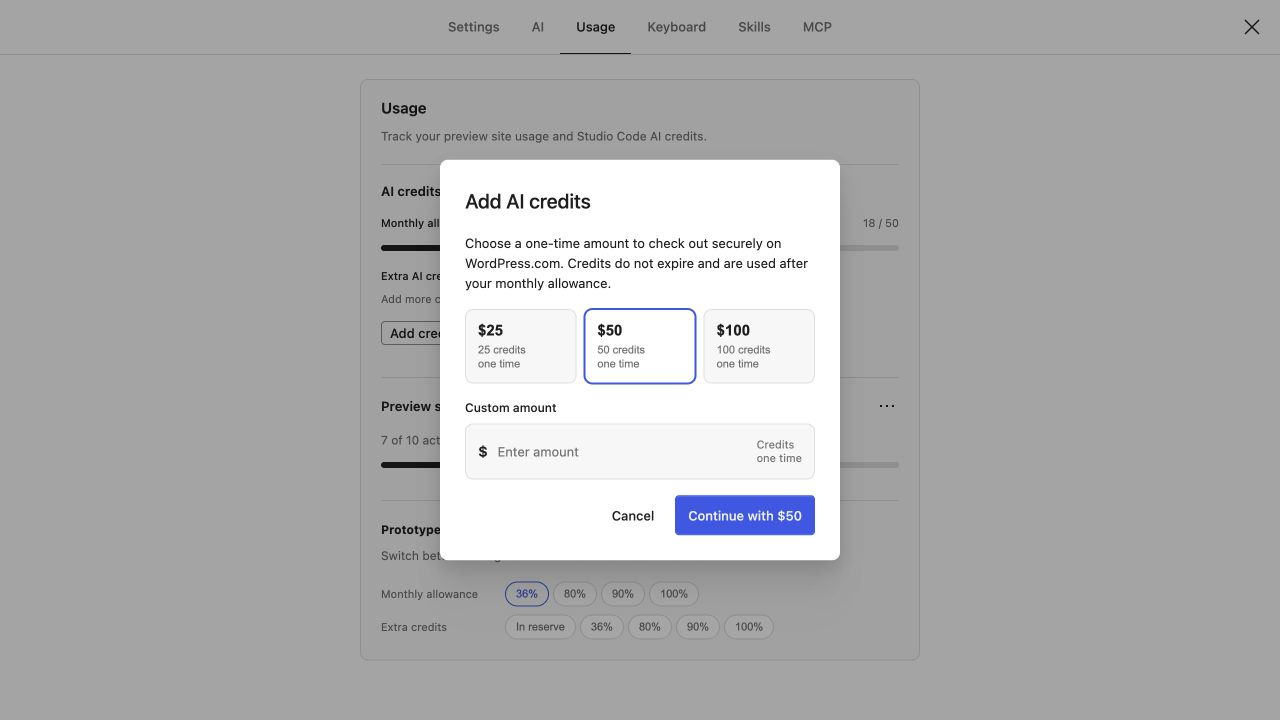
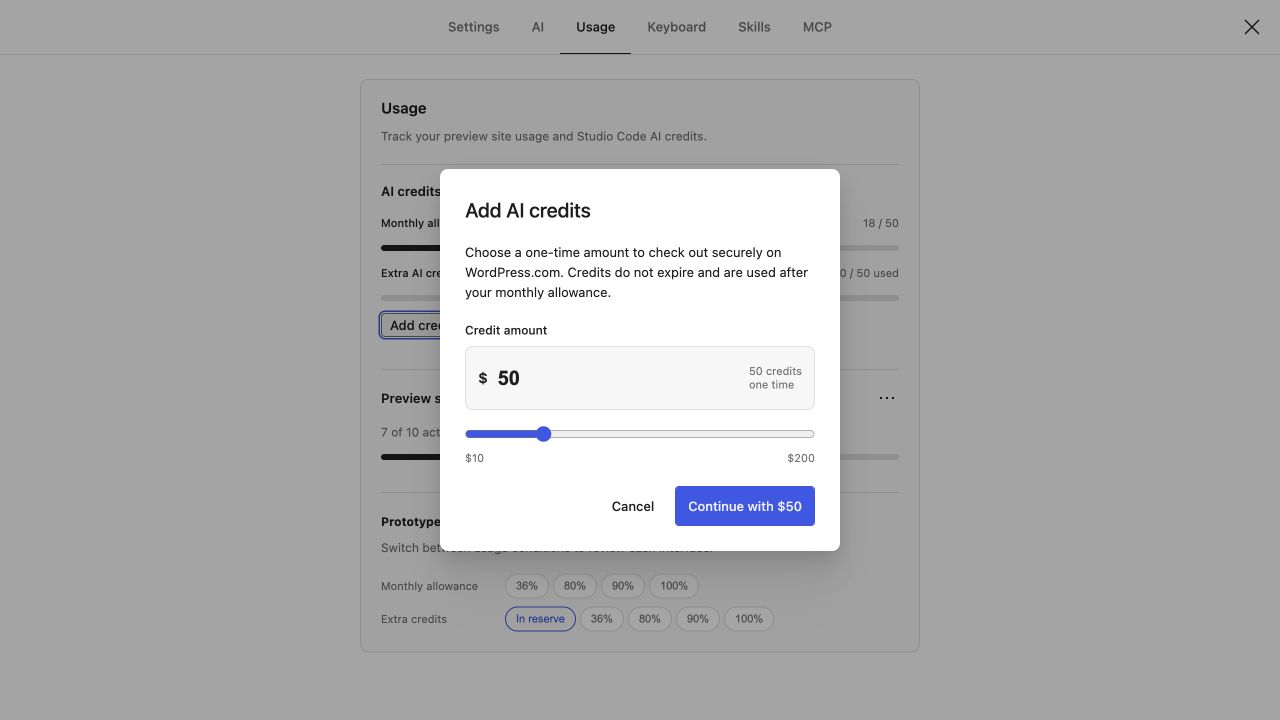
Explore slider-based credit amounts

diff --git a/apps/ui/src/components/purchase-credits-dialog/index.tsx b/apps/ui/src/components/purchase-credits-dialog/index.tsx
@@ -8,7 +8,9 @@ import { useColorScheme } from '@/hooks/use-color-scheme';
 import { unlock } from '@/lock-unlock';
 import styles from './style.module.css';
 
-const CREDIT_AMOUNTS = [ 25, 50, 100 ];
+const MIN_CREDIT_AMOUNT = 10;
+const MAX_CREDIT_AMOUNT = 200;
+const DEFAULT_CREDIT_AMOUNT = 50;
 const { ThemeProvider } = unlock( privateApis );
 
 export function PurchaseCreditsDialog( {
@@ -18,13 +20,20 @@ export function PurchaseCreditsDialog( {
 	open: boolean;
 	onOpenChange: ( open: boolean ) => void;
 } ) {
-	const [ amount, setAmount ] = useState< number | null >( 50 );
-	const [ customAmount, setCustomAmount ] = useState( '' );
+	const [ amount, setAmount ] = useState( String( DEFAULT_CREDIT_AMOUNT ) );
 	const colorScheme = useColorScheme();
 	const dialogBackground = colorScheme === 'dark' ? '#1e1e1e' : '#ffffff';
-	const parsedCustomAmount = Number( customAmount );
-	const checkoutAmount = amount ?? parsedCustomAmount;
-	const hasValidAmount = Number.isInteger( checkoutAmount ) && checkoutAmount > 0;
+	const checkoutAmount = Number( amount );
+	const hasValidAmount =
+		Number.isInteger( checkoutAmount ) &&
+		checkoutAmount >= MIN_CREDIT_AMOUNT &&
+		checkoutAmount <= MAX_CREDIT_AMOUNT;
+	const sliderAmount = hasValidAmount
+		? checkoutAmount
+		: Math.min(
+				MAX_CREDIT_AMOUNT,
+				Math.max( MIN_CREDIT_AMOUNT, Number( amount ) || DEFAULT_CREDIT_AMOUNT )
+		  );
 
 	const continueToCheckout = () => {
 		if ( ! hasValidAmount ) {
@@ -55,74 +64,58 @@ export function PurchaseCreditsDialog( {
 								'Choose a one-time amount to check out securely on WordPress.com. Credits do not expire and are used after your monthly allowance.'
 							) }
 						</Dialog.Description>
-						<div
-							className={ styles.amounts }
-							role="radiogroup"
-							aria-label={ __( 'Credit amount' ) }
-						>
-							{ CREDIT_AMOUNTS.map( ( option ) => (
-								<button
-									key={ option }
-									type="button"
-									className={ styles.amount }
-									data-selected={ amount === option ? '' : undefined }
-									role="radio"
-									aria-checked={ amount === option }
-									onClick={ () => {
-										setAmount( option );
-										setCustomAmount( '' );
-									} }
-								>
-									<span className={ styles.amountValue }>${ option }</span>
-									<span className={ styles.amountDetails }>
-										<span className={ styles.amountLabel }>
-											{ sprintf(
-												/* translators: %s: number of AI credits included. */
-												__( '%s credits' ),
-												String( option )
-											) }
-										</span>
-										<span className={ styles.amountFrequency }>{ __( 'one time' ) }</span>
-									</span>
-								</button>
-							) ) }
-						</div>
-						<label className={ styles.customAmount }>
-							<span className={ styles.customAmountLabel }>{ __( 'Custom amount' ) }</span>
-							<span
-								className={ styles.customAmountControl }
-								data-selected={ amount === null && customAmount ? '' : undefined }
-							>
+						<div className={ styles.amountPicker }>
+							<label className={ styles.amountInputLabel } htmlFor="credit-amount-input">
+								{ __( 'Credit amount' ) }
+							</label>
+							<span className={ styles.amountControl }>
 								<span className={ styles.customAmountPrefix } aria-hidden="true">
 									$
 								</span>
 								<input
-									className={ styles.customAmountInput }
+									id="credit-amount-input"
+									className={ styles.amountInput }
 									type="number"
-									min="1"
+									min={ MIN_CREDIT_AMOUNT }
+									max={ MAX_CREDIT_AMOUNT }
 									step="1"
 									inputMode="numeric"
-									placeholder={ __( 'Enter amount' ) }
-									value={ customAmount }
-									onChange={ ( event ) => {
-										setCustomAmount( event.target.value );
-										setAmount( null );
-									} }
+									value={ amount }
+									onChange={ ( event ) => setAmount( event.target.value ) }
 								/>
 								<span className={ styles.amountDetails }>
 									<span className={ styles.amountLabel }>
-										{ customAmount && hasValidAmount
+										{ hasValidAmount
 											? sprintf(
-													/* translators: %s: custom number of AI credits. */
+													/* translators: %s: number of AI credits. */
 													__( '%s credits' ),
 													String( checkoutAmount )
 											  )
-											: __( 'Credits' ) }
+											: sprintf(
+													/* translators: 1: minimum credits, 2: maximum credits. */
+													__( '%1$s–%2$s credits' ),
+													String( MIN_CREDIT_AMOUNT ),
+													String( MAX_CREDIT_AMOUNT )
+											  ) }
 									</span>
 									<span className={ styles.amountFrequency }>{ __( 'one time' ) }</span>
 								</span>
 							</span>
-						</label>
+							<input
+								className={ styles.amountRange }
+								type="range"
+								min={ MIN_CREDIT_AMOUNT }
+								max={ MAX_CREDIT_AMOUNT }
+								step="1"
+								value={ sliderAmount }
+								onChange={ ( event ) => setAmount( event.target.value ) }
+								aria-label={ __( 'Credit amount slider' ) }
+							/>
+							<div className={ styles.rangeLabels } aria-hidden="true">
+								<span>${ MIN_CREDIT_AMOUNT }</span>
+								<span>${ MAX_CREDIT_AMOUNT }</span>
+							</div>
+						</div>
 					</Dialog.Content>
 					<Dialog.Footer>
 						<Dialog.Action variant="minimal" tone="neutral">

diff --git a/apps/ui/src/components/purchase-credits-dialog/style.module.css b/apps/ui/src/components/purchase-credits-dialog/style.module.css
@@ -1,49 +1,14 @@
-.amounts {
-	display: grid;
-	grid-template-columns: repeat( 3, minmax( 0, 1fr ) );
-	gap: var( --wpds-dimension-gap-sm );
+.amountPicker {
+	display: flex;
+	flex-direction: column;
 	margin-block-start: var( --wpds-dimension-padding-lg );
 }
 
-.amount {
-	display: flex;
-	align-items: flex-start;
-	flex-direction: column;
-	justify-content: space-between;
-	gap: var( --wpds-dimension-gap-xs );
-	padding: var( --wpds-dimension-padding-md );
-	border: 1px solid var( --wpds-color-stroke-surface-neutral );
-	border-radius: 8px;
-	background: var( --wpds-color-bg-surface-neutral-weak );
+.amountInputLabel {
+	margin-block-end: var( --wpds-dimension-gap-xs );
 	color: var( --wpds-color-fg-content-neutral );
-	cursor: pointer;
-	text-align: start;
-}
-
-.amount:hover {
-	border-color: var( --wpds-color-stroke-interactive-neutral );
-	background: var( --wpds-color-bg-surface-neutral );
-}
-
-.amount[data-selected] {
-	border-color: transparent;
-	outline: 2px solid var( --wpds-color-stroke-interactive-brand );
-	outline-offset: -1px;
-	background: color-mix(
-		in srgb,
-		var( --wpds-color-bg-interactive-brand-weak ) 35%,
-		var( --wpds-color-bg-surface-neutral-strong )
-	);
-}
-
-.amount:focus-visible {
-	outline: 2px solid var( --wpds-color-stroke-focus-brand );
-	outline-offset: -1px;
-}
-
-.amountValue {
-	font-size: var( --wpds-typography-font-size-lg );
-	font-weight: 600;
+	font-size: var( --wpds-typography-font-size-sm );
+	font-weight: 500;
 }
 
 .amountDetails {
@@ -63,33 +28,19 @@
 	font-size: 11px;
 }
 
-.customAmount {
-	display: flex;
-	flex-direction: column;
-	gap: var( --wpds-dimension-gap-xs );
-	margin-block-start: var( --wpds-dimension-padding-md );
-}
-
-.customAmountLabel {
-	color: var( --wpds-color-fg-content-neutral );
-	font-size: var( --wpds-typography-font-size-sm );
-	font-weight: 500;
-}
-
-.customAmountControl {
+.amountControl {
 	display: flex;
 	align-items: center;
 	gap: var( --wpds-dimension-gap-sm );
 	box-sizing: border-box;
-	min-block-size: 56px;
+	min-block-size: 64px;
 	padding: var( --wpds-dimension-padding-sm ) var( --wpds-dimension-padding-md );
 	border: 1px solid var( --wpds-color-stroke-surface-neutral );
 	border-radius: 8px;
 	background: var( --wpds-color-bg-surface-neutral-weak );
 }
 
-.customAmountControl:focus-within,
-.customAmountControl[data-selected] {
+.amountControl:focus-within {
 	border-color: transparent;
 	outline: 2px solid var( --wpds-color-stroke-interactive-brand );
 	outline-offset: -1px;
@@ -101,16 +52,33 @@
 	font-weight: 600;
 }
 
-.customAmountInput {
+.amountInput {
 	min-inline-size: 0;
 	flex: 1;
 	border: 0;
 	outline: 0;
 	background: transparent;
 	color: var( --wpds-color-fg-content-neutral );
-	font: inherit;
+	font-size: var( --wpds-typography-font-size-xl );
+	font-weight: 600;
 }
 
-.customAmountInput::placeholder {
+.amountRange {
+	inline-size: 100%;
+	margin: var( --wpds-dimension-padding-lg ) 0 0;
+	accent-color: var( --wpds-color-bg-interactive-brand-strong );
+	cursor: pointer;
+}
+
+.amountRange:focus-visible {
+	outline: 2px solid var( --wpds-color-stroke-focus-brand );
+	outline-offset: 3px;
+}
+
+.rangeLabels {
+	display: flex;
+	justify-content: space-between;
+	margin-block-start: var( --wpds-dimension-gap-xs );
 	color: var( --wpds-color-fg-content-neutral-weak );
+	font-size: var( --wpds-typography-font-size-xs );
 }
